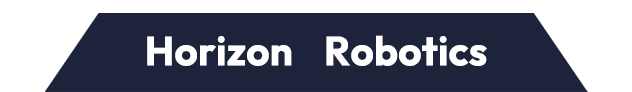
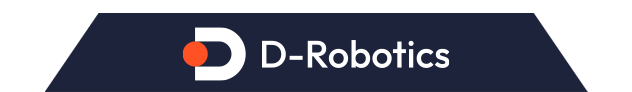
feat(webservice): Change web log to d-robotics

Changed region(s): [[0.2104, 0.2826, 0.7816, 0.8913]]

diff --git a/debian/app/pydev_demo/05_web_display_camera_sample/webservice/html/modules/index.html b/debian/app/pydev_demo/05_web_display_camera_sample/webservice/html/modules/index.html
@@ -8,7 +8,7 @@
   <meta http-equiv="Content-Type" content="text/html; charset=utf-8" />
   <meta http-equiv="X-UA-Compatible" content="IE=edge" />
   <meta name="viewport" content="width=device-width,user-scalable=no,initial-scale=1,maximum-scale=1,minimum-scale=1" />
-  <title>OpenExplorer web 展示端</title>
+  <title>OpenExplorer web Display</title>
 
   <link rel="stylesheet" href="../styles/normalize.css">
   <link rel="stylesheet" href="./main.css">
@@ -28,56 +28,56 @@
       <!-- <div class="video"></div> -->
       <ul id="message">
         <p class="message-t">
-          <a href="https://developer.horizon.ai/" target="__blank">OpenExplorer 首页链接</a>
+          <a href="https://developer.d-robotics.cc/" target="__blank">OpenExplorer Home Page Link</a>
         </p>
-        <li id="message-t">智能信息展示</li>
+        <li id="message-t">Perception Information Display</li>
         <li>
           <input class="message-show" type="checkbox" name="item" dataType="boxes" checked="true">
-          <label>检测框（人体框，人头框，人脸框，车、非机动车检测框，停车位，其他检测框（宠物、椅子等））</label>
+          <label>Detection frames (human body frame, head frame, face frame, car and non-motor vehicle detection frames, parking spaces, other detection frames (pets, chairs, etc.))</label>
         </li>
         <li>
           <input class="message-show" type="checkbox" name="item" dataType="handBox" checked="true">
-          <label>人手（检测框）</label>
+          <label>Human hand (detection frame)</label>
         </li>
         <li>
           <input class="message-show" type="checkbox" name="item" dataType="handMarks" checked="true">
-          <label>人手（手势骨骼）</label>
+          <label>Human hand (gesture skeleton)</label>
         </li>
         <li>
           <input class="message-show" type="checkbox" name="item" dataType="body" checked="true">
-          <label>人体（人体骨骼）</label>
+          <label>Human body (human skeleton)</label>
         </li>
         <li>
           <input class="message-show" type="checkbox" name="item" dataType="face" checked="true">
-          <label>人脸（人脸关键点，人脸姿态）</label>
+          <label>Face (face key points, face pose)</label>
         </li>
         <li>
           <input class="message-show" type="checkbox" name="item" dataType="attributes" checked="true">
-          <label>分类信息（年龄性别、口罩眼镜等）</label>
+          <label>Classification information (age, gender, mask, glasses, etc.)</label>
         </li>
         <li>
           <input class="message-show" type="checkbox" name="item" dataType="corner" checked="true">
-          <label>角点</label>
+          <label>Corner</label>
         </li>
         <li>
           <input class="message-show" type="checkbox" name="item" dataType="floatMatrixs" checked="true">
-          <label>全图分割</label>
+          <label>Full Image Segmentation</label>
         </li>
         <li>
           <input class="message-show" type="checkbox" name="item" dataType="floatMatrixsMatting">
-          <label>抠图分割</label>
+          <label>Cutout segmentation</label>
         </li>
         <li>
           <input class="message-show" type="checkbox" name="item" dataType="floatMatrixsMask">
-          <label>人体分割</label>
+          <label>Human body segmentation</label>
         </li>
         <li>
           <input class="message-show" type="checkbox" name="item" dataType="performance">
-          <label>性能数据</label>
+          <label>Performance Data</label>
         </li>
         <li>
           <input class="message-show" type="checkbox" name="item" dataType="scoreShow">
-          <label>模型置信度</label>
+          <label>Model confidence</label>
         </li>
         <li>
           <input class="message-show" type="checkbox" name="item" dataType="trackId">
@@ -85,7 +85,7 @@
         </li>
         <li>
           <input class="message-show" type="checkbox" name="item" dataType="depth" disabled='true'>
-          <label>深度</label>
+          <label>Depth</label>
         </li>
       </ul>
       <div class="message-change message-h">

diff --git a/debian/app/pydev_demo/05_web_display_camera_sample/webservice/html/index.html b/debian/app/pydev_demo/05_web_display_camera_sample/webservice/html/index.html
@@ -14,7 +14,7 @@
     <header>
       <div class="logo"></div>
       <div class="title">
-        <h1>OpenExplorer web 展示端</h1>
+        <h1>OpenExplorer web Display</h1>
       </div>
     </header>
 
@@ -22,17 +22,17 @@
       <ul class="cont-url">
         <li>
           <select id="pathchoice" class="pathchoice" onchange="changePathNum(value)">
-            <option value="1">1路</option>
-            <option value="2">2路</option>
-            <option value="3">3路</option>
-            <option value="4">4路</option>
-            <option value="5">5路</option>
-            <option value="6">6路</option>
-            <option value="7">7路</option>
-            <option value="8">8路</option>
+            <option value="1">1</option>
+            <option value="2">2</option>
+            <option value="3">3</option>
+            <option value="4">4</option>
+            <option value="5">5</option>
+            <option value="6">6</option>
+            <option value="7">7</option>
+            <option value="8">8</option>
           </select>
         </li>
-        <li><a href="./modules/" onclick="getVideoNum()">web 展示端</a></li>
+        <li><a href="./modules/" onclick="getVideoNum()">web Display</a></li>
       </ul>
     </section>
   </div>
